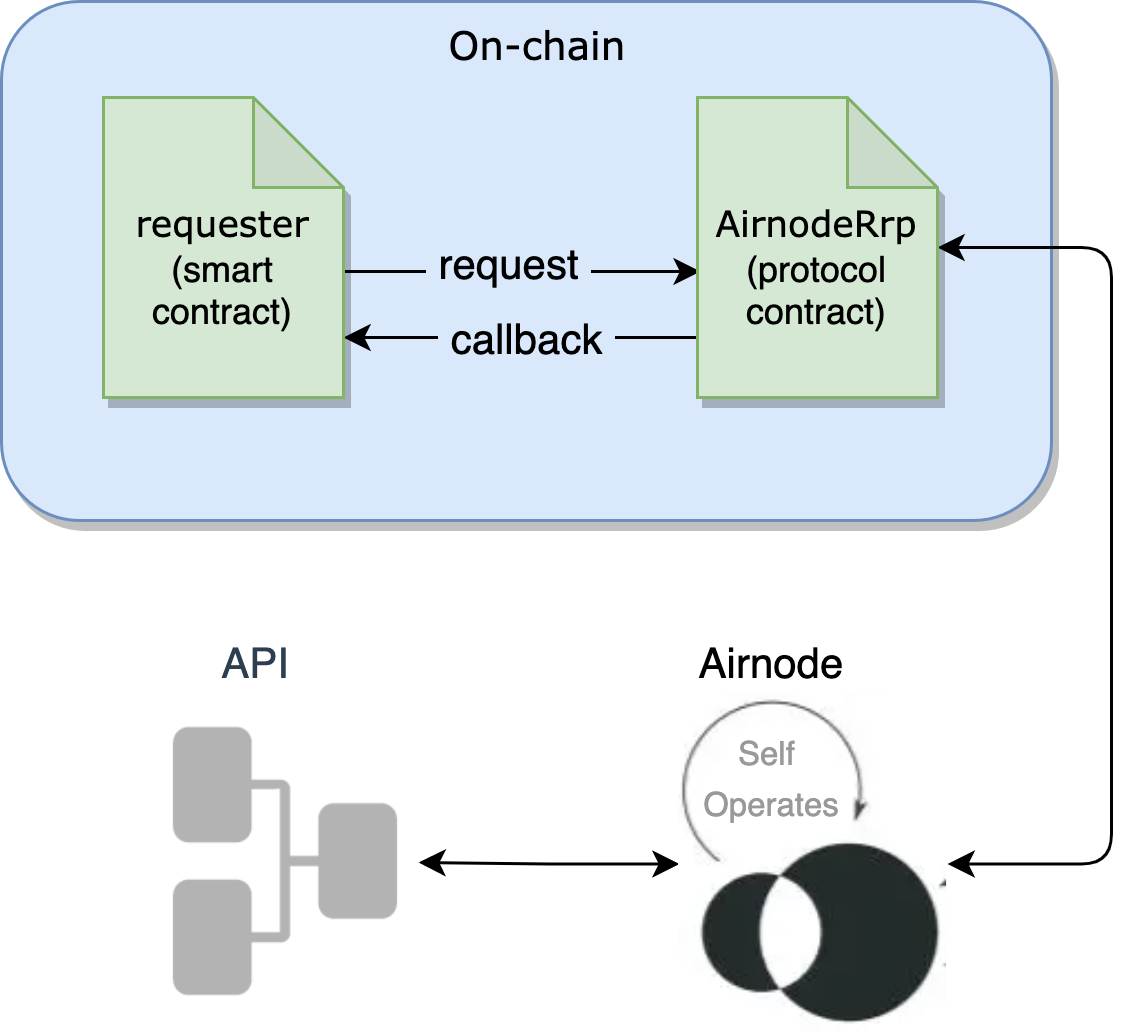
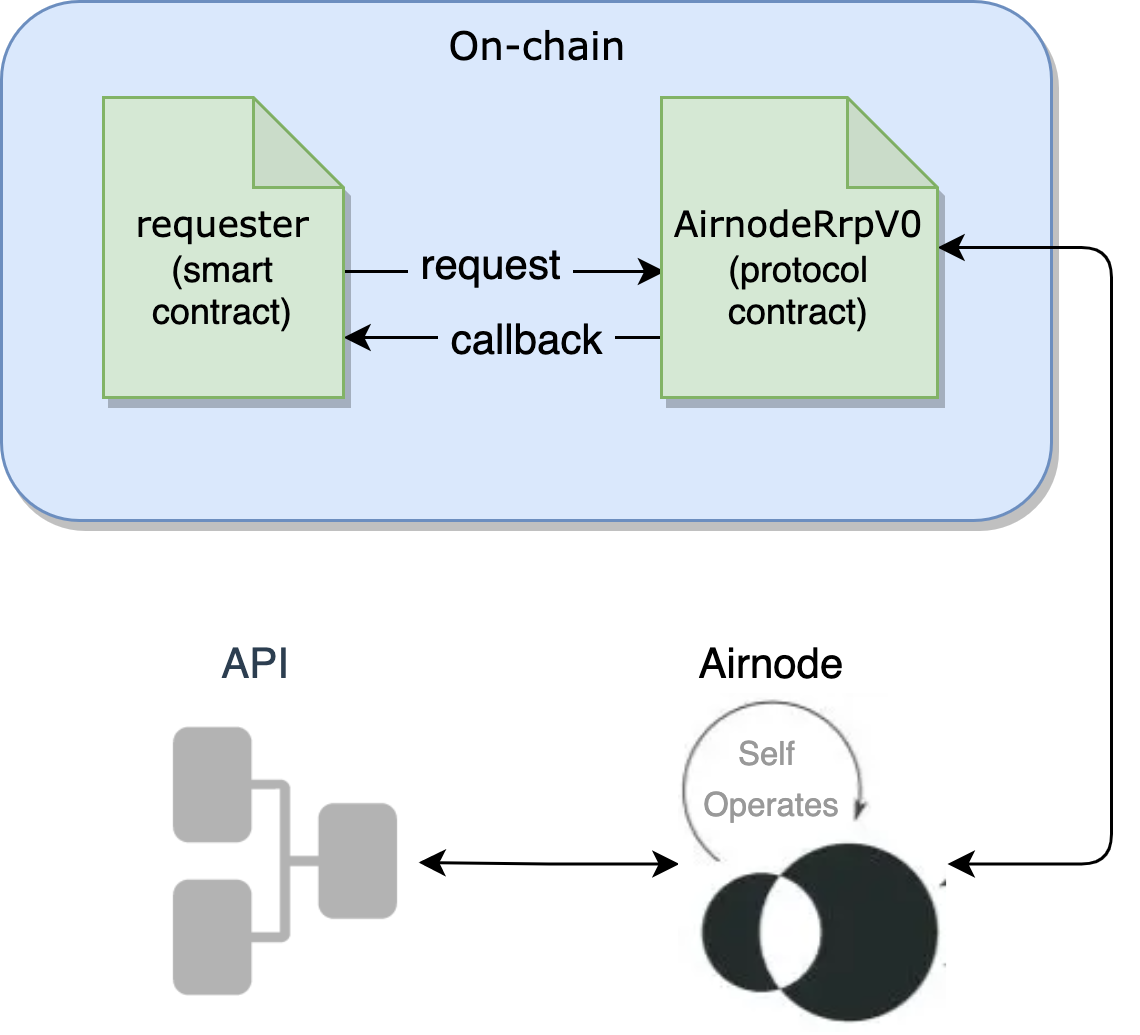
Using AirnodeRrpV0 and RrpRequesterV0

Changed region(s): [[0.5526, 0.0928, 0.7982, 0.4019], [0.3684, 0.2473, 0.5219, 0.2783]]

diff --git a/docs/qrng/using-qrng.md b/docs/qrng/using-qrng.md
@@ -10,7 +10,9 @@ title: How to use API3 QRNG
 <TOC class="table-of-contents" :include-level="[2,3]" />
 
 The API3 QRNG service is implemented using the Airnode request–response protocol
-contract, `AirnodeRrp`, to acquire a random number.
+contract,
+[AirnodeRrpV0](https://github.com/api3dao/airnode/blob/master/packages/airnode-protocol/contracts/rrp/AirnodeRrpV0.sol),
+to acquire a random number.
 
 ::: tip Gas Costs
 
@@ -22,19 +24,19 @@ on-chain in response to a request, which the requester needs to pay for.
 
 ## How it Works
 
-Upon request, the provider [Airnode](/airnode/v0.6/) calls a designated API
-operation and acquires a random number and then delivers it on-chain, via the
-`AirnodeRrp` protocol contract, to a requester.
+Upon request, [Airnode](/airnode/v0.6/) calls a designated API operation and
+acquires a random number and then delivers it on-chain, via the `AirnodeRrpV0`
+protocol contract, to a requester.
 
 In the diagram below a requester (smart contract) submits a request for a random
-number to `AirnodeRrp`. Airnode gathers the request from the `AirnodeRrp`
-protocol contract, gets the random number from the API and sends it back to
-`AirnodeRrp`. Once received, `AirnodeRrp` performs a callback to the requester
-with the random number.
+number to `AirnodeRrpV0`. Airnode gathers the request from the `AirnodeRrpV0`
+protocol contract, gets the random number from an API operation and sends it
+back to `AirnodeRrpV0`. Once received, `AirnodeRrpV0` performs a callback to the
+requester with the random number.
 
 > <img src="./assets/images/access-overview.png" width="400"  />
 
-Calling `AirnodeRrp` for a random number is the same as any other Airnode
+Calling `AirnodeRrpV0` for a random number is the same as any other Airnode
 request. Read more about how a requester
 [accesses an Airnode](/airnode/v0.6/grp-developers/) to acquire data from API
 operations.
@@ -62,9 +64,11 @@ Preparing to use the QRNG service involves three steps.
 ### Step 1: Create a Requester
 
 Call the QRNG service using the _request–response protocol (RRP)_ implemented by
-the on-chain `AirnodeRrp` contract. Refer to the
+the on-chain `AirnodeRrpV0` contract. Refer to the
 [Calling an Airnode](/airnode/v0.6/grp-developers/call-an-airnode.md) doc for a
-detailed explanation and instructions to make a `AirnodeRrp` request.
+detailed explanation and instructions to make a `AirnodeRrpV0` request. The
+[@api3/airnode-protocol](https://www.npmjs.com/package/@api3/airnode-protocol)
+package is distributed via npm.
 
 The code example below is what a requester might look like when requesting a
 single random number. The code is extracted from the
@@ -75,9 +79,9 @@ each call.
 ```js
 //SPDX-License-Identifier: MIT
 pragma solidity 0.8.9;
-import "@api3/airnode-protocol/contracts/rrp/requesters/RrpRequester.sol";
+import "@api3/airnode-protocol/contracts/rrp/requesters/RrpRequesterV0.sol";
 
-contract QrngExample is RrpRequester {
+contract QrngExample is RrpRequesterV0 {
     event RequestedUint256(bytes32 indexed requestId);
     event ReceivedUint256(bytes32 indexed requestId, uint256 response);
 
@@ -88,7 +92,7 @@ contract QrngExample is RrpRequester {
 
     mapping(bytes32 => bool) public expectingRequestWithIdToBeFulfilled;
 
-    constructor(address _airnodeRrp) RrpRequester(_airnodeRrp) {}
+    constructor(address _airnodeRrp) RrpRequesterV0(_airnodeRrp) {}
 
     // Set parameters used by airnodeRrp.makeFullRequest(...)
     // See makeRequestUint256()

diff --git a/docs/qrng/chains.md b/docs/qrng/chains.md
@@ -11,10 +11,13 @@ Requests will be responded to after `minConfirmations` blocks (see
 context). Expect this to correspond to 1–3 minutes based on chain conditions
 such as congestion and block times. These numbers are subject to change.
 
-You can import `AirnodeRrp` addresses from the `@api3/airnode-protocol` package,
-see the [QRNG example project](https://github.com/api3dao/qrng-example).
+You can import `AirnodeRrpV0` addresses from the `@api3/airnode-protocol`
+package, see the
+[QRNG example project](https://github.com/api3dao/qrng-example). The
+[@api3/airnode-protocol](https://www.npmjs.com/package/@api3/airnode-protocol)
+package is distributed via npm.
 
-| Network   | Chain ID | `AirnodeRrp` Address                       | `minConfirmations` |
+| Network   | Chain ID | `AirnodeRrpV0` Address                     | `minConfirmations` |
 | --------- | -------- | ------------------------------------------ | ------------------ |
 | ropsten   | 3        | 0xa0AD79D995DdeeB18a14eAef56A549A04e3Aa1Bd | 1                  |
 | rinkeby   | 4        | 0xa0AD79D995DdeeB18a14eAef56A549A04e3Aa1Bd | 1                  |

diff --git a/docs/qrng/providers.md b/docs/qrng/providers.md
@@ -9,7 +9,7 @@ title: API Providers
 <TocHeader />
 <TOC class="table-of-contents" :include-level="[2,3]" />
 
-API3 QRNG is built on [Airnode RRP](/airnode/v0.6/concepts), and as a result is
+API3 QRNG is built on [Airnode RRP](/airnode/v0.6/concepts/), and as a result is
 provider-agnostic. See below for the providers that are currently available.
 
 ## ANU Quantum Random Numbers
